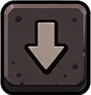
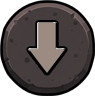
feat: showMobileControls() & mobil keys style: mobil

diff --git a/js/game.js b/js/game.js
@@ -17,9 +17,12 @@ function loadGame() {
   let startMenu = document.getElementById(`bottom-menu`);
   startScreen.innerHTML = getHTMLForStartScreen();
   soundControl.innerHTML = getHTMLForSoundButton();
+  startMenu.innerHTML = getHTMLForMenu();
   document.getElementById("end-screen").classList.add("d-none");
   document.getElementById("win-screen").classList.add("d-none");
   document.getElementById("start-screen").classList.remove("d-none");
+    document.getElementById("bottom-menu").classList.remove("d-none");
+    document.getElementById("mobil-control").classList.remove("d-none");
   AudioHub.stopOne(AudioHub.OUTRO);
 }
 
@@ -32,13 +35,19 @@ function startGame() {
   setTimeout(() => {
     AudioHub.stopOne(AudioHub.TITEL_MUSIC);
   }, 10000);
-
+  document.getElementById("bottom-menu").classList.add("d-none");
   document.getElementById("start-screen").classList.add("d-none");
   document.getElementById("end-screen").classList.add("d-none");
   document.getElementById("win-screen").classList.add("d-none");
-
+ showMobileControls();
 }
 
+function showMobileControls() {
+
+    if (window.innerWidth <= 1024) {
+        document.getElementById('mobil-control').style.display = 'block';
+    }
+}
 function toogleSound() {
   let buttonSoundOn = document.getElementById(`sound-on`);
   let buttonSoundMute = document.getElementById(`sound-mute`);
@@ -143,22 +152,47 @@ window.addEventListener('keyup', (event) => {
   }
 });
 
-function setupMobileControls() {
-  function bindButton(id, keyName) {
-    const btn = document.getElementById(id);
-    btn.addEventListener("touchstart", (e) => {
-      e.preventDefault();
-      keys[keyName] = true;
-    });
-    btn.addEventListener("touchend", (e) => {
-      e.preventDefault();
-      keys[keyName] = false;
-    });
-  }
-  bindButton("leftBtn", "LEFT");
-  bindButton("rightBtn", "RIGHT");
-  bindButton("upBtn", "UP");
-  bindButton("downBtn", "DOWN");
-  bindButton("spaceBtn", "SPACE");
-  bindButton("dBtn", "KEY_D");
-}
+window.addEventListener('load', () => {
+document.getElementById("leftBtn").addEventListener("touchstart", (e) => {
+    e.preventDefault();
+    mobilControl.LEFT = true;
+});
+
+document.getElementById("leftBtn").addEventListener("touchend", (e) => {
+    e.preventDefault();
+    mobilControl.LEFT = false;
+});
+
+
+document.getElementById("rightBtn").addEventListener("touchstart", (e) => {
+    e.preventDefault();
+    mobilControl.RIGHT = true;
+});
+
+document.getElementById("rightBtn").addEventListener("touchend", (e) => {
+    e.preventDefault();
+    mobilControl.RIGHT = false;
+});
+
+
+document.getElementById("spaceBtn").addEventListener("touchstart", (e) => {
+    e.preventDefault();
+    mobilControl.SPACE = true;
+});
+
+document.getElementById("spaceBtn").addEventListener("touchend", (e) => {
+    e.preventDefault();
+    mobilControl.SPACE = false;
+});
+
+
+document.getElementById("dBtn").addEventListener("touchstart", (e) => {
+    e.preventDefault();
+    mobilControl.KEY_D = true;
+});
+
+document.getElementById("dBtn").addEventListener("touchend", (e) => {
+    e.preventDefault();
+    mobilControl.KEY_D = false;
+});
+});

diff --git a/models/character.class.js b/models/character.class.js
@@ -162,7 +162,7 @@ class Character extends MovableObject {
         this.intervalIds = [];
 
         this.intervalIds.push(setInterval(() => {
-            if (this.world.keyboard.RIGHT && this.x < this.world.level.level_end_x && !this.isDead()) {
+            if ((this.world.keyboard.RIGHT || this.world.mobilControl.RIGHT) && this.x < this.world.level.level_end_x && !this.isDead()) {
                 this.moveRight();
                 this.otherDirection = false;
                 this.idleTimer = 0;
@@ -170,13 +170,13 @@ class Character extends MovableObject {
                     AudioHub.playOne(AudioHub.CHARACTER_WALKING);
                 }
             }
-            if (this.world.keyboard.LEFT && this.x > 0 && !this.isDead()) {
+            if ((this.world.keyboard.LEFT || this.world.mobilControl.LEFT) && this.x > 0 && !this.isDead()) {
                 this.moveLeft();
                 this.otherDirection = true;
                 this.idleTimer = 0;
                 AudioHub.playOne(AudioHub.CHARACTER_WALKING);
             }
-            if (this.world.keyboard.SPACE && !this.isAboveGround()) {
+            if ((this.world.keyboard.SPACE || this.world.mobilControl.SPACE) && !this.isAboveGround()) {
                 this.jump();
                 this.idleTimer = 0;
                 AudioHub.playOne(AudioHub.CHARACTER_JUMPING);
@@ -205,7 +205,7 @@ class Character extends MovableObject {
             } else if (this.isHurt()) {
                 this.playAnimation(this.IMAGES_HURT);
             } else {
-                if (this.world.keyboard.RIGHT || this.world.keyboard.LEFT) {
+                if ((this.world.keyboard.RIGHT || this.world.keyboard.LEFT || this.world.mobilControl.RIGHT || this.world.mobilControl.LEFT) && !this.isAboveGround()) {
                     this.playAnimation(this.IMAGES_WALKING);
                     AudioHub.playOne(AudioHub.CHARACTER_WALKING);
                 }
@@ -224,7 +224,7 @@ class Character extends MovableObject {
                 if (this.idleTimer >= 10000) {
                     this.playAnimation(this.IMAGES_LONG_IDLE);
                     setTimeout(() => {
-                        if (!this.isDead() && !this.world.characterDead && !this.world.keyboard.RIGHT && !this.world.keyboard.LEFT && !this.world.keyboard.SPACE && !this.isAboveGround()) {
+                        if (!this.isDead() && !this.world.characterDead && !this.world.keyboard.RIGHT && !this.world.keyboard.LEFT && !this.world.keyboard.SPACE && !this.world.mobilControl.RIGHT && !this.world.mobilControl.LEFT && !this.world.mobilControl.SPACE && !this.isAboveGround()) {
                         if(!this.world.characterDead && !this.world.endbossDead){
                             AudioHub.playIdle(AudioHub.CHARACTER_IDLE);
                         }

diff --git a/index.html b/index.html
@@ -8,6 +8,7 @@
     <link rel="stylesheet" href="./styles/style.css">
     <link rel="stylesheet" href="./styles/style-ui.css">
     <link rel="stylesheet" href="./styles/modal.css">
+    <link rel="stylesheet" href="./styles/mobil-control.css">
 
     <script src="./models/drawable-object.class.js"></script>
     <script src="./models/movable-object.class.js"></script>
@@ -50,19 +51,21 @@
                <section id="mobil-select">
                 <div class="wrapper-mobil">
                 <div class="image-mobil"></div>
-                <h2 class="mobil-h2">To play rotate mobile device</h2>
+                <h2 class="mobil-h2">Rotate to play!</h2>
                 </div>
             </section>
             <div class="canvas-wrapper">
                 <canvas id="canvas" width="720" height="480">
                 </canvas>
                 <section id="mobil-control" class="d-none">
+                    <div class="mobil-control-left">
                     <button id="leftBtn"></button>
                     <button id="rightBtn"></button>
-                    <button id="upBtn"></button>
-                    <button id="downBtn"></button>
+                    </div>
+                     <div class="mobil-control-right">
                     <button id="spaceBtn"></button>
                     <button id="dBtn"></button>
+                    </div>
                 </section>
                 <div id="screen-overlay">
                     <div id="sound-control" class="sound-control">
@@ -75,9 +78,9 @@
                     </div>
                     <div id="win-screen" class="d-none">
                     </div>
-                    <div id="instructions" class="modal d-none">
+                    <div id="instructions" class="d-none modal">
                     </div>
-                    <div id="impressum" class="modal d-none">
+                    <div id="impressum" class="d-none modal">
                     </div>
                 </div>
             </div>

diff --git a/styles/mobil-control.css b/styles/mobil-control.css
@@ -1,0 +1,67 @@
+#mobil-control {
+    position: absolute;
+    inset: 0;
+    z-index: 50;
+    pointer-events: none;
+}
+
+.mobil-control-left,
+.mobil-control-right {
+    position: absolute;
+    bottom: 20px;
+    display: flex;
+    gap: 30px;
+    pointer-events: all;
+}
+
+.mobil-control-left {
+    left: -70px;
+    background-color: rgba(255, 255, 255, 0.2);
+    border-radius: 50%;
+    filter: drop-shadow(3px 3px 6px rgba(0,0,0,0.7));
+}
+
+.mobil-control-right {
+    right: -70px;
+    background-color: rgba(255, 255, 255, 0.2);
+    border-radius: 50%;
+    filter: drop-shadow(3px 3px 6px rgba(0,0,0,0.7));
+}
+
+#mobil-control button {
+    width: 50px;
+    height: 50px;
+    border-radius: 50%;
+    border: none;
+    cursor: pointer;
+    background-color: rgba(255, 255, 255, 0.2);
+    backdrop-filter: blur(12px);
+    background-repeat: no-repeat;
+    background-position: center;
+    background-size: 40px;
+    transition: transform 100ms ease;
+}
+
+#mobil-control button:active {
+    transform: scale(0.9);
+}
+
+#leftBtn {
+    background: transparent url("../assets/buttons/button-arrow-left.png") center center/cover no-repeat;
+}
+
+
+#rightBtn {
+    background: transparent url("../assets/buttons/button-arrow-right.png") center center/cover no-repeat;
+}
+
+
+#spaceBtn {
+    background: transparent url("../assets/buttons/button-jump.png") center center/cover no-repeat;
+}
+
+
+
+#dBtn {
+    background: transparent url("../assets/buttons/button-throw.png") center center/cover no-repeat;
+}

diff --git a/styles/style-ui.css b/styles/style-ui.css
@@ -2,6 +2,10 @@
      display: none;
  }
 
+ #mobil-control {
+     display: none;
+ }
+
  #mobil-select {
      display: none;
  }
@@ -15,9 +19,11 @@
      left: 0;
      z-index: 1001;
  }
-.mobil-h2{
-text-align: center;
-}
+
+ .mobil-h2 {
+     text-align: center;
+     font-size: 24px;
+ }
 
  .wrapper-mobil {
      display: flex;
@@ -83,8 +89,8 @@ text-align: center;
 
  .sound-control {
      position: absolute;
-     right: 1%;
-     bottom: 3%;
+     right: -4%;
+     top: 4%;
      display: flex;
      align-items: center;
      pointer-events: none;
@@ -137,7 +143,7 @@ text-align: center;
      display: block;
  }
 
- #impressum-menu{
+ #impressum-menu {
      pointer-events: auto;
      width: clamp(110px, 16vh, 260px);
      max-width: 40%;
@@ -152,7 +158,7 @@ text-align: center;
      display: block;
  }
 
-#instructions-menu {
+ #instructions-menu {
      pointer-events: auto;
      width: clamp(40px, 6%, 80px);
      max-width: 40%;
@@ -244,6 +250,10 @@ text-align: center;
          background-color: #000;
      }
 
+     #mobil-control {
+         display: none !important;
+     }
+
 
  }
 
@@ -268,7 +278,7 @@ text-align: center;
  @media (height <=360px) {
      .sound-control {
          width: clamp(20px, 6%, 50px);
-         bottom: 2%;
+         top: -80%;
          right: 3%;
      }
 
@@ -284,7 +294,7 @@ text-align: center;
  @media (width <=360px) {
      .sound-control {
          width: clamp(20px, 6%, 50px);
-         bottom: 2%;
+         top: -80%;
          right: 3%;
      }
 

diff --git a/models/world.class.js b/models/world.class.js
@@ -64,7 +64,7 @@ class World {
         if (now - this.lastThrowTime < 1000) {
             return;
         }
-        if (this.keyboard.KEY_D && this.collectedMagicPoints > 0) {
+        if ((this.keyboard.KEY_D || this.mobilControl.KEY_D) && this.collectedMagicPoints > 0) {
             this.lastThrowTime = now;
             if (this.character.otherDirection == false) {
                 let magicBall = new ThrowableObject(this.character.x + 120, this.character.y + 100, this.character.otherDirection); //Start Zauber
@@ -173,7 +173,7 @@ class World {
   checkCollisionsEndboss() {
         let now = Date.now();
         this.level.endboss.forEach((enemy) => {
-            if (this.character.isColliding(enemy) && !enemy.isDead() && !this.character.isAboveGround() && !this.character.isHurt() && (now - this.lastCharacterHit > 2000)) {
+            if (this.character.isColliding(enemy) && !enemy.isDead() && !this.character.isAboveGround() && !this.character.isHurt() && (now - this.lastCharacterHit > 1000)) {
                 this.lastCharacterHit = now;
                 this.character.hit(5);
                 this.character.isHurt();

diff --git a/models/endboss-bar.class.js b/models/endboss-bar.class.js
@@ -21,7 +21,7 @@ class EndbossBar extends DrawableObject {
         super(); // muss immer rein um auf das Übergeordnete Objekt zugreifen zu können
         this.loadImages(this.IMAGES_HEALTH_BAR);
         this.setPercentage(100);
-        this.x = 520;
+        this.x = 480;
         this.y = 20;
         this.width = 170;
         this.height = 30;

diff --git a/js/template.js b/js/template.js
@@ -31,7 +31,7 @@ function getHTMLForMenu() {
                             <img class="instructions-button" src="./assets/buttons/button-menu.png" alt="instructions"
                                 onclick="openModalInstructions()">
             </div>
-    
+
     `}
 
 function getHTMLForScreenWin() {
